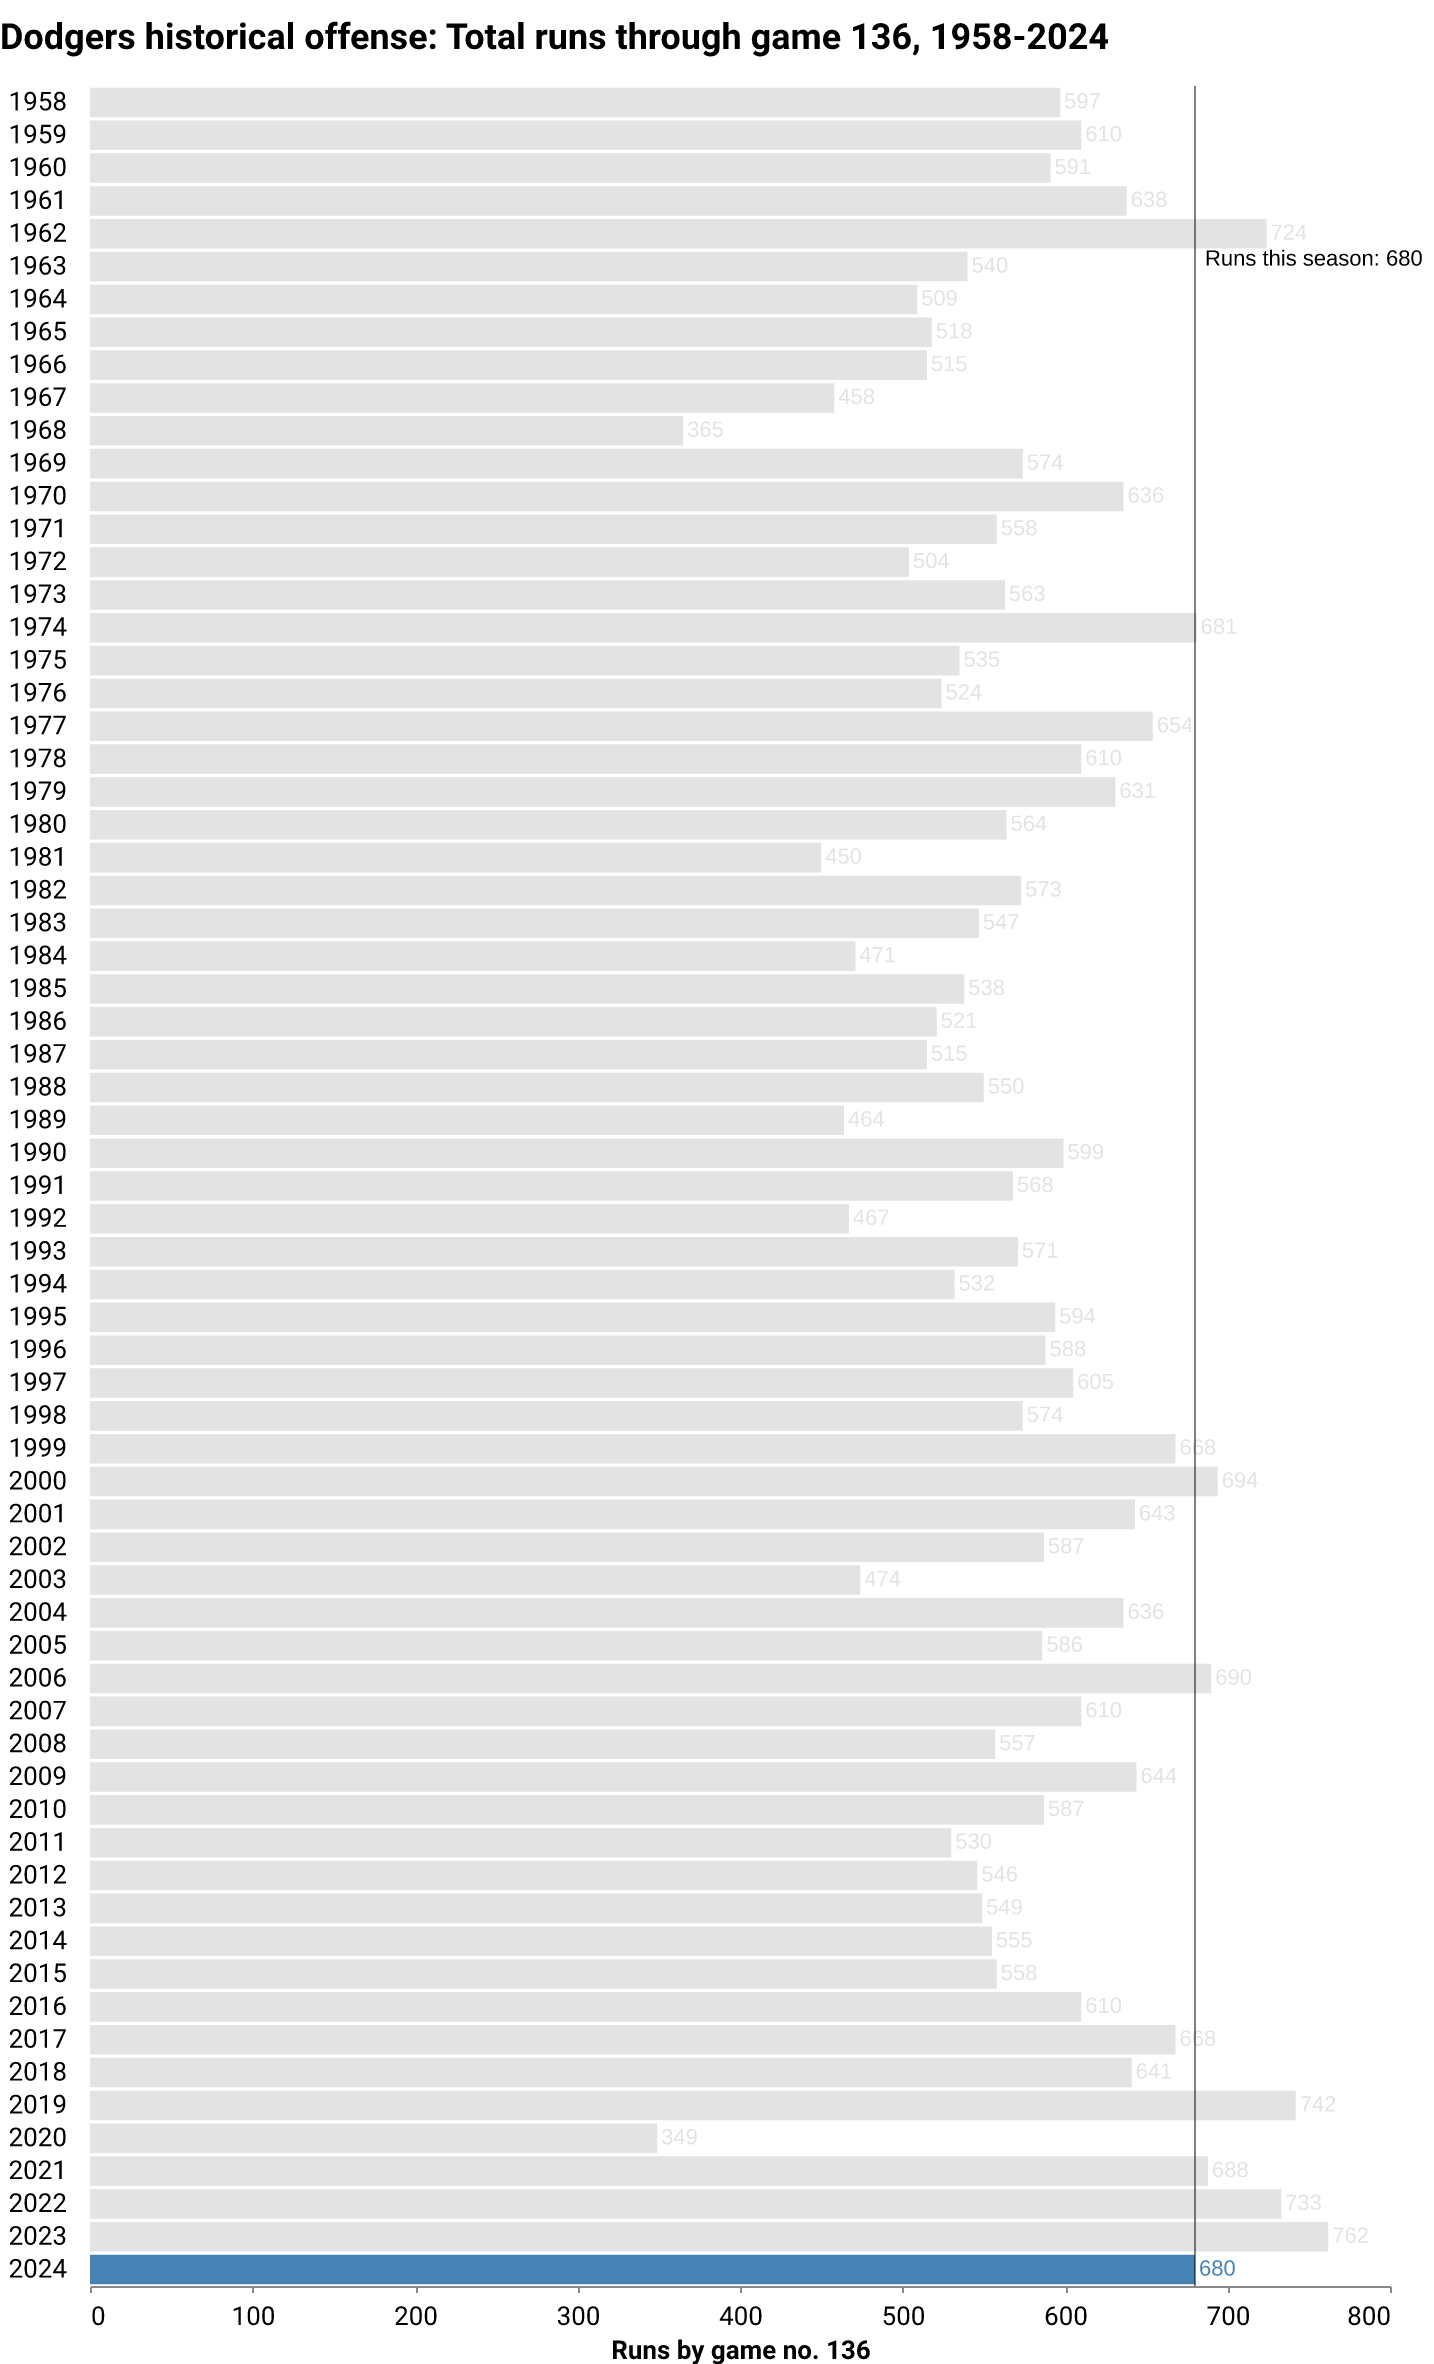
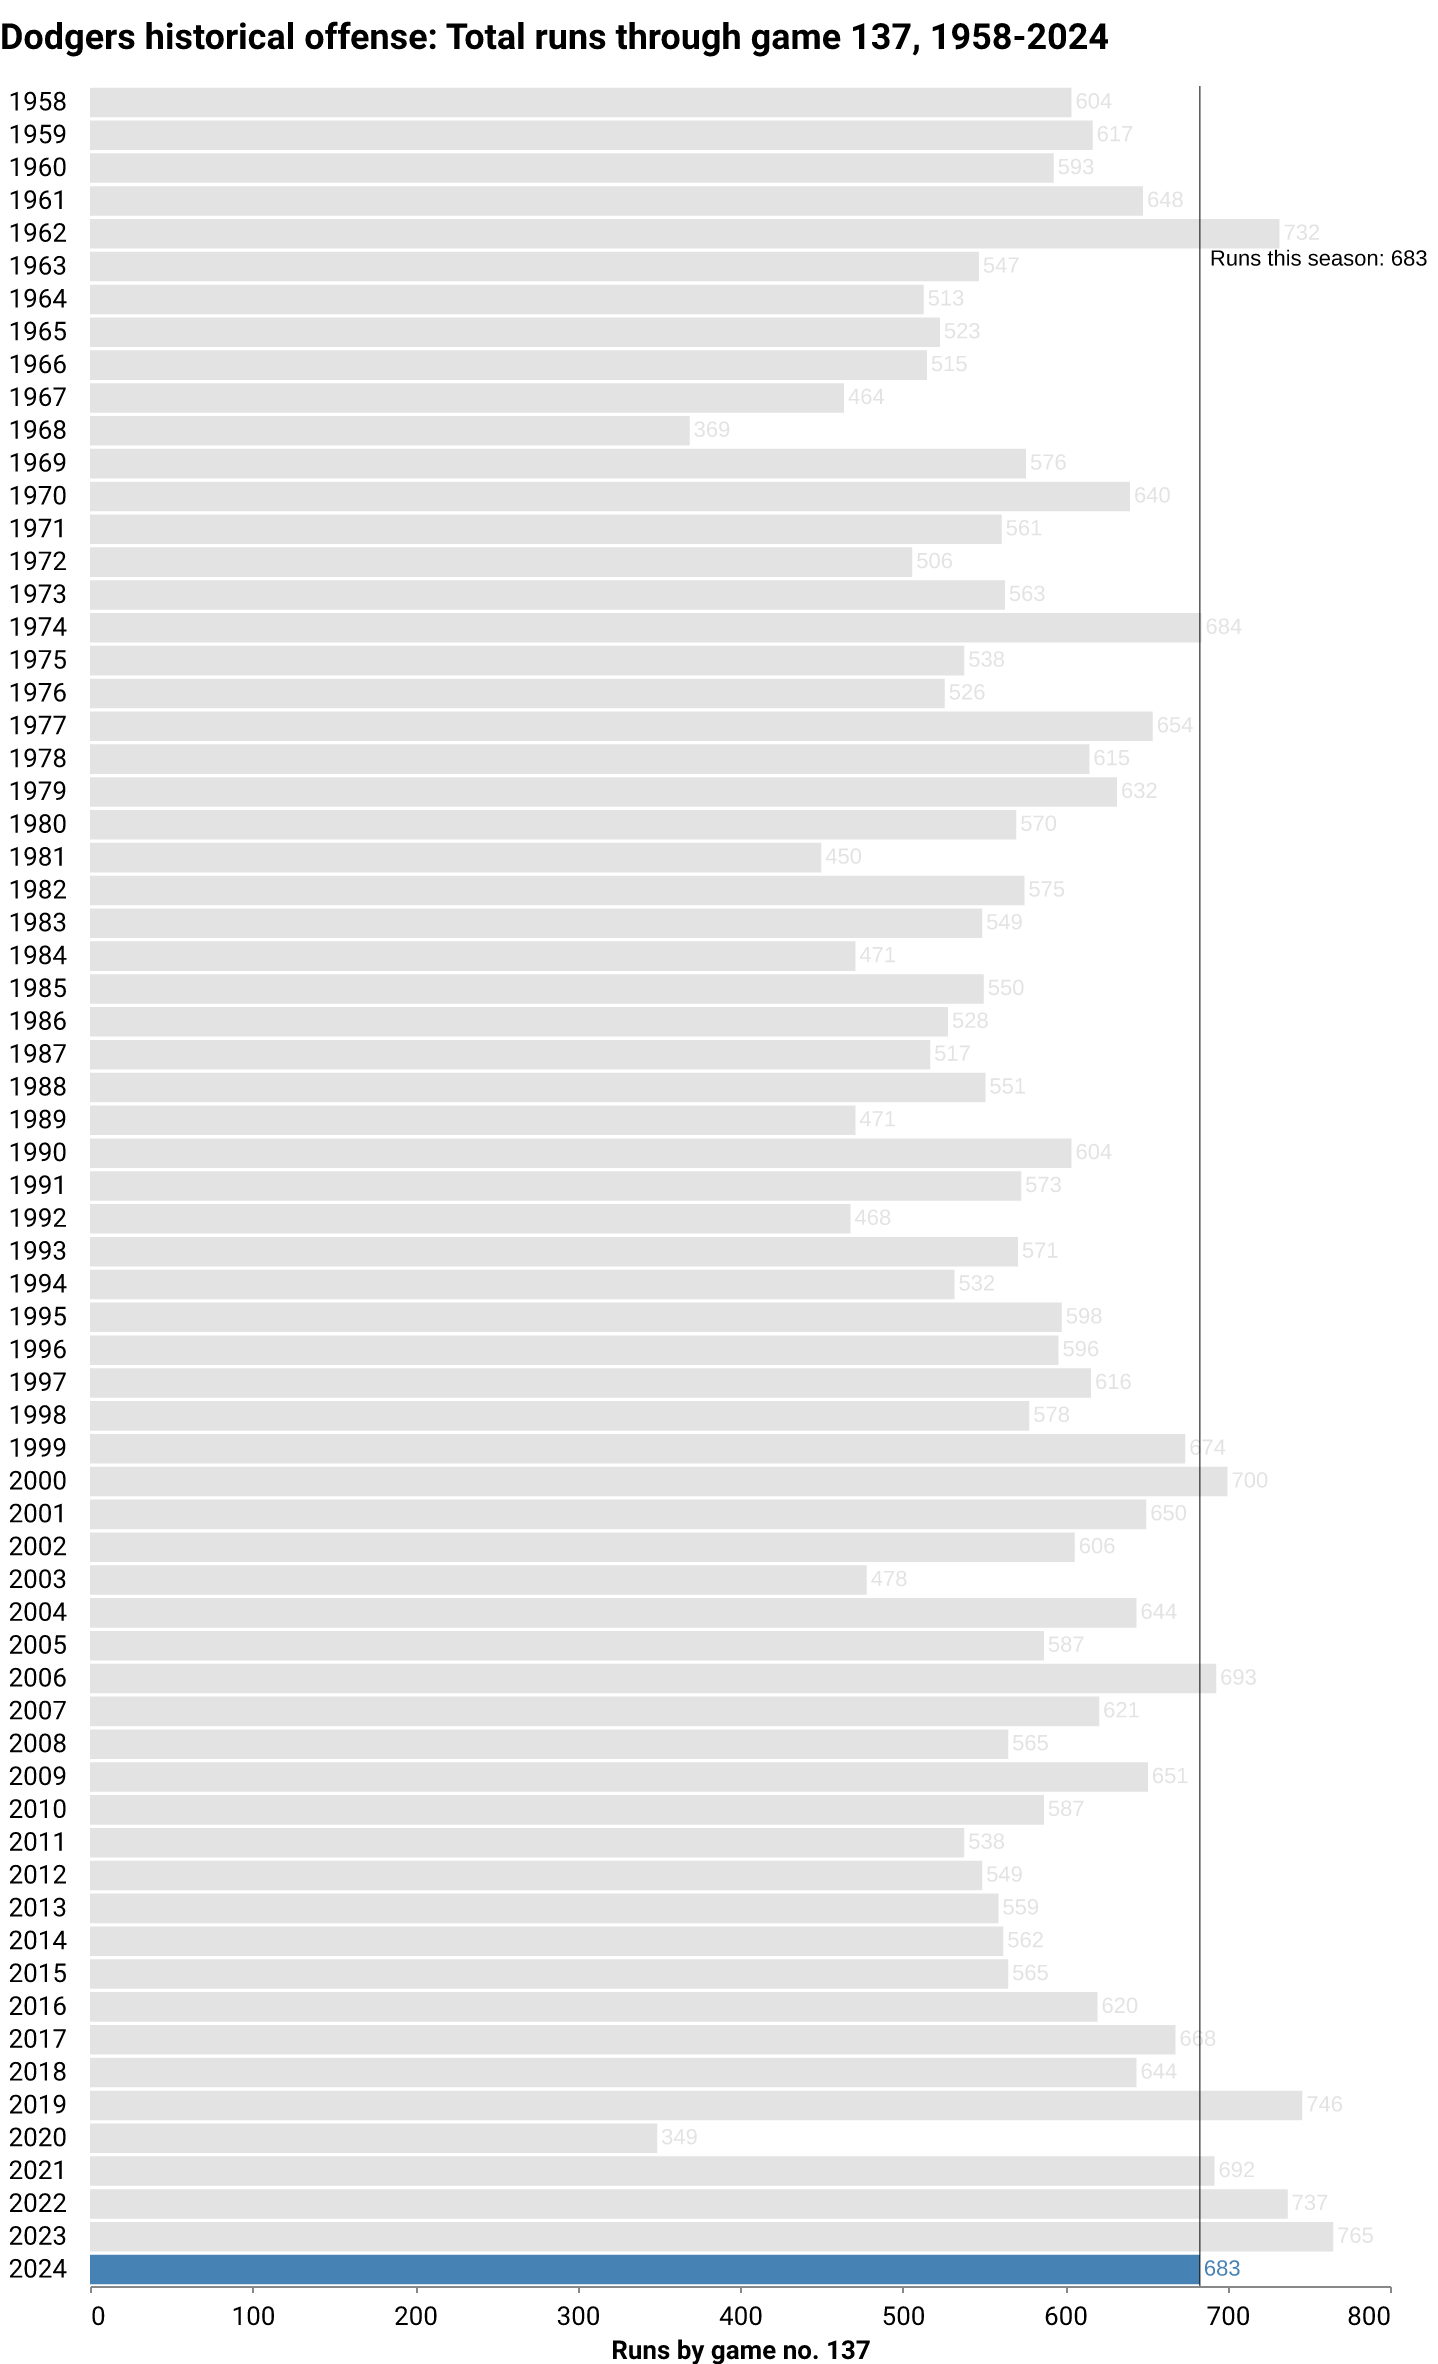
deploy: 9c8ff587f18759cd9154d5c65690e7e9b29b61b1

diff --git a/index.html b/index.html
@@ -177,14 +177,14 @@
     
     
     
-        <i class="fa-solid fa-arrow-trend-up" style="color: #005a9c;"></i>
+        <i class="fa-solid fa-arrow-trend-down" style="color: #ef3e42;"></i>
     
 </div>
 <h1 class="headline">How are the Dodgers doing?</h1>
 <p class="subhead">
     
     
-    <span class="highlight">LOS ANGELES</span> <span class="updated">(September 1)</span> — After <span class="highlight">136</span> games this season, the Dodgers are in <span class="highlight">1st</span> place in the National League West division. The team has compiled a <span class="highlight">82-54</span> record, winning <span class="highlight">60%</span> of its games so far. The last game was a <span class="highlight">8-6</span> away <span class="highlight">win</span> against the Arizona Diamondbacks in front of <span class="highlight">50,041</span> fans. They've won <span class="highlight">8 of the last 10</span>.
+    <span class="highlight">LOS ANGELES</span> <span class="updated">(September 2)</span> — After <span class="highlight">137</span> games this season, the Dodgers are in <span class="highlight">1st</span> place in the National League West division. The team has compiled a <span class="highlight">82-55</span> record, winning <span class="highlight">60%</span> of its games so far. The last game was a <span class="highlight">3-14</span> away <span class="highlight">loss</span> against the Arizona Diamondbacks in front of <span class="highlight">46,278</span> fans. They've won <span class="highlight">7 of the last 10</span>.
 </p>
 </div>
 
@@ -222,10 +222,10 @@
             Losses
           </div>
           <div class="card-body">
-            <p class="card-text">54</p>
+            <p class="card-text">55</p>
           </div>
           <div class="card-footer text-muted">
-        This point last season: 52
+        This point last season: 53
           </div>
         </div>
       </div>
@@ -238,10 +238,10 @@
             Record
           </div>
           <div class="card-body">
-            <p class="card-text">82-54</p>
+            <p class="card-text">82-55</p>
           </div>
           <div class="card-footer text-muted">
-        This point last season: 84-52
+        This point last season: 84-53
           </div>
         </div>
       </div>
@@ -257,7 +257,7 @@
             <p class="card-text">60%</p>
           </div>
           <div class="card-footer text-muted">
-        This point last season: 62%
+        This point last season: 61%
           </div>
         </div>
       </div>
@@ -270,7 +270,7 @@
             Games up/back
           </div>
           <div class="card-body">
-            <p class="card-text">6.0</p>
+            <p class="card-text">5.0</p>
           </div>
           <div class="card-footer text-muted">
         Division rank: 1
@@ -302,7 +302,7 @@
             Runs
           </div>
           <div class="card-body">
-            <p class="card-text">680</p>
+            <p class="card-text">683</p>
           </div>
           <div class="card-footer text-muted">
         League rank: 2
@@ -318,10 +318,10 @@
             Runs against
           </div>
           <div class="card-body">
-            <p class="card-text">557</p>
+            <p class="card-text">571</p>
           </div>
           <div class="card-footer text-muted">
-        This point last season: 596
+        This point last season: 602
           </div>
         </div>
       </div>
@@ -334,10 +334,10 @@
             Run differential
           </div>
           <div class="card-body">
-            <p class="card-text">123</p>
+            <p class="card-text">112</p>
           </div>
           <div class="card-footer text-muted">
-        This point last season: 166
+        This point last season: 163
           </div>
         </div>
       </div>
@@ -408,7 +408,7 @@
             Batting average
           </div>
           <div class="card-body">
-            <p class="card-text">.254</p>
+            <p class="card-text">.253</p>
           </div>
           <div class="card-footer text-muted">
         Last decade average: .253
@@ -440,7 +440,7 @@
             Home runs/game
           </div>
           <div class="card-body">
-            <p class="card-text">1.38</p>
+            <p class="card-text">1.36</p>
           </div>
           <div class="card-footer text-muted">
         Last decade average: 1.36
@@ -475,7 +475,7 @@
             <p class="card-text">102</p>
           </div>
           <div class="card-footer text-muted">
-        League rank: 7
+        League rank: 8
           </div>
         </div>
       </div>
@@ -488,7 +488,7 @@
             Stolen bases/game
           </div>
           <div class="card-body">
-            <p class="card-text">0.75</p>
+            <p class="card-text">0.74</p>
           </div>
           <div class="card-footer text-muted">
         Rate all last season: 0.65
@@ -605,7 +605,7 @@
             Strikeouts
           </div>
           <div class="card-body">
-            <p class="card-text">1161</p>
+            <p class="card-text">1164</p>
           </div>
           <div class="card-footer text-muted">
         League rank: 8
@@ -621,10 +621,10 @@
             Walks
           </div>
           <div class="card-body">
-            <p class="card-text">412</p>
+            <p class="card-text">414</p>
           </div>
           <div class="card-footer text-muted">
-        League rank: 9
+        League rank: 8
           </div>
         </div>
       </div>
@@ -637,10 +637,10 @@
             ERA
           </div>
           <div class="card-body">
-            <p class="card-text">3.77</p>
+            <p class="card-text">3.84</p>
           </div>
           <div class="card-footer text-muted">
-        League rank: 4
+        League rank: 5
           </div>
         </div>
       </div>
@@ -716,7 +716,7 @@
     </div>
 </div>
 
-  <p class="dated">Notes: Last updated September 1, 2024, 3:03 PM PT. More <a href="https://github.com/stiles/dodgers/blob/main/README.md">about the data</a>.</p>
+  <p class="dated">Notes: Last updated September 2, 2024, 12:03 AM PT. More <a href="https://github.com/stiles/dodgers/blob/main/README.md">about the data</a>.</p>
   
 </div>
 
